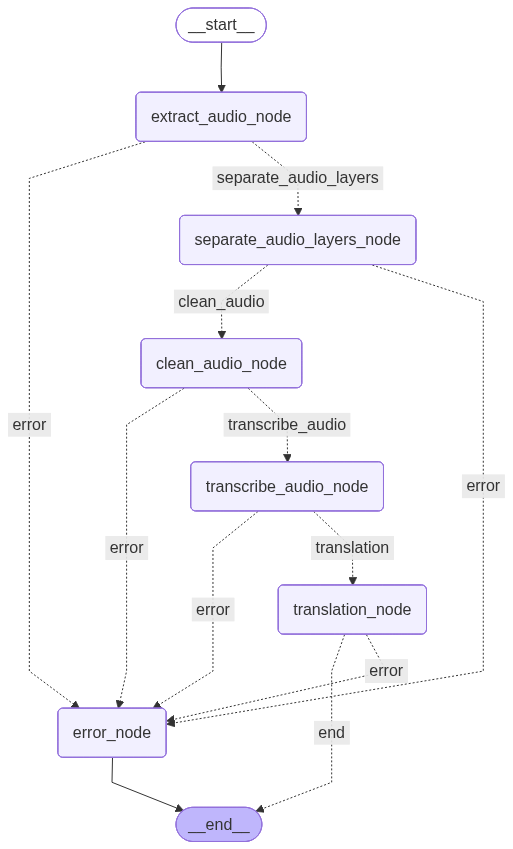
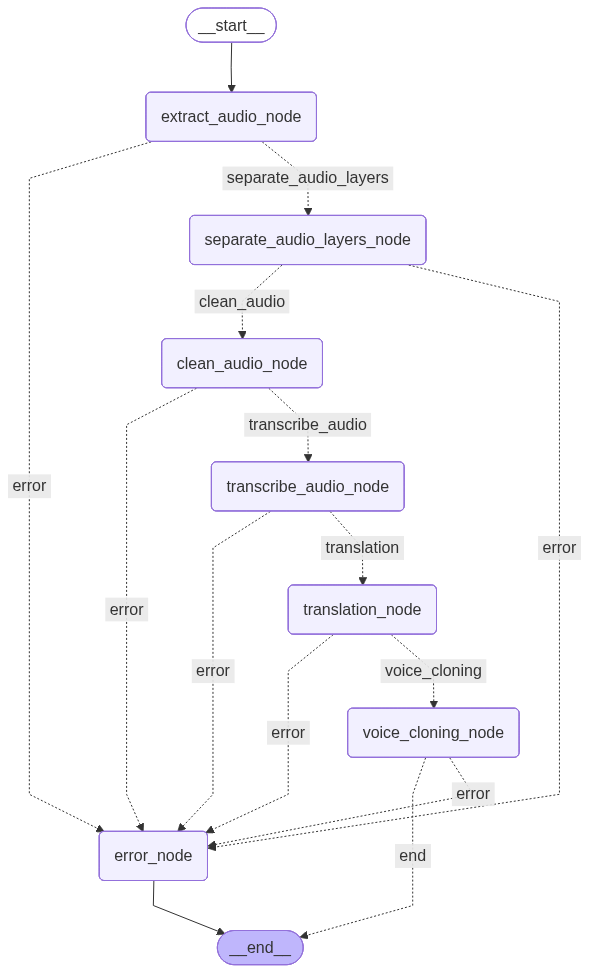
voice_cloning_node added into graph

diff --git a/graph.py b/graph.py
@@ -4,6 +4,7 @@ from nodes.extract_audio import extract_audio_node
 from nodes.separate_layers import separate_audio_layers_node
 from nodes.transcribe import transcribe_audio_node
 from nodes.translate import translation_node
+from nodes.voice_cloning import voice_cloning_node
 from state import AgentState
 
 
@@ -31,6 +32,7 @@ graph.add_node("clean_audio_node", clean_audio_node)
 graph.add_node("transcribe_audio_node", transcribe_audio_node)
 # Placeholder for translation node
 graph.add_node("translation_node", translation_node)
+graph.add_node("voice_cloning_node", voice_cloning_node)
 graph.add_node("error_node", error_node)
 
 # Edges
@@ -68,12 +70,21 @@ graph.add_conditional_edges(
 
 graph.add_conditional_edges(
     "translation_node",
+    route_on_error("voice_cloning_node"),
+    {
+        "voice_cloning": "voice_cloning_node",
+        "error": "error_node"
+    }
+)
+
+graph.add_conditional_edges(
+    "voice_cloning_node",
     route_on_error("end"),
     {
         "end": END,
         "error": "error_node"
     }
-)
+);
 
 graph.add_edge("error_node", END)
 
